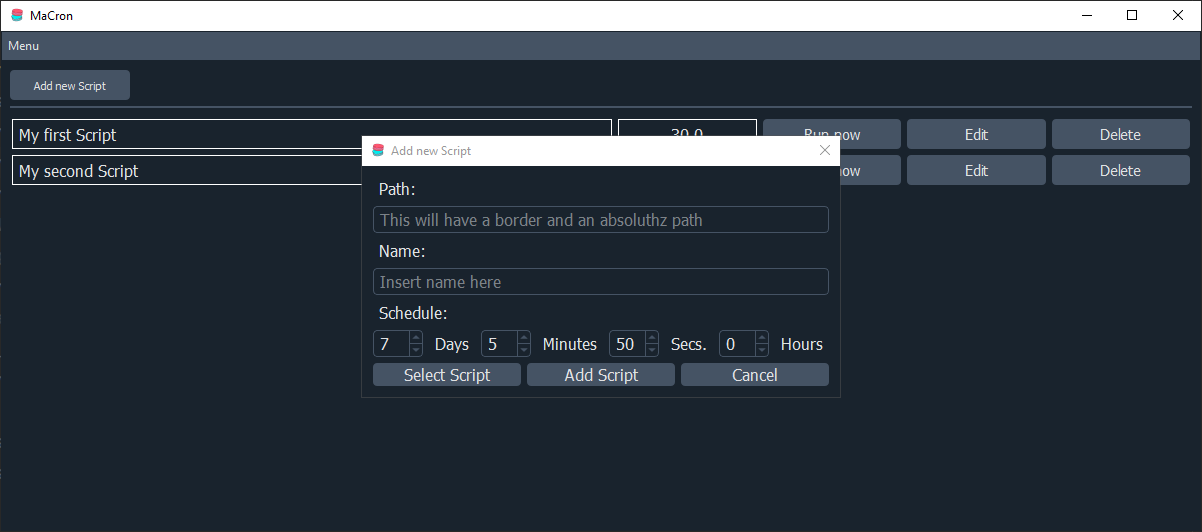
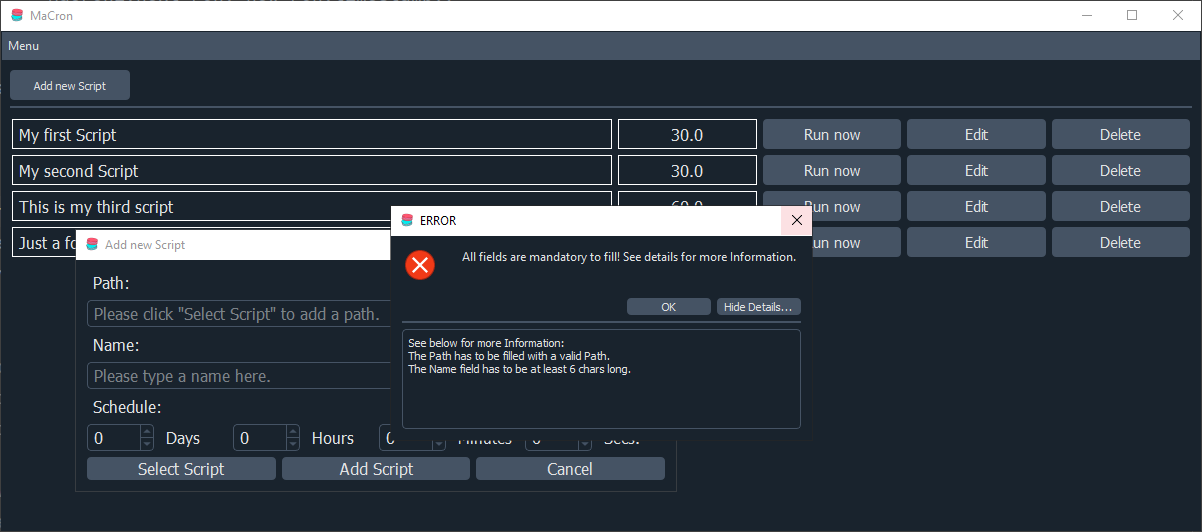
Scripts can now be added to the DB

diff --git a/UI/addDialog.py b/UI/addDialog.py
@@ -14,72 +14,73 @@ from PyQt5 import QtCore, QtGui, QtWidgets
 class Ui_Dialog(object):
     def setupUi(self, Dialog):
         Dialog.setObjectName("Dialog")
-        Dialog.resize(410, 207)
+        Dialog.resize(600, 220)
         font = QtGui.QFont()
         font.setPointSize(12)
         Dialog.setFont(font)
         icon = QtGui.QIcon()
         icon.addPixmap(QtGui.QPixmap(":/icons/assets/icons/macaron_flaticon-com.ico"), QtGui.QIcon.Normal, QtGui.QIcon.Off)
         Dialog.setWindowIcon(icon)
+        Dialog.setWhatsThis("")
         self.horizontalLayout_4 = QtWidgets.QHBoxLayout(Dialog)
         self.horizontalLayout_4.setObjectName("horizontalLayout_4")
         self.gridLayout_2 = QtWidgets.QGridLayout()
         self.gridLayout_2.setObjectName("gridLayout_2")
         self.horizontalLayout_3 = QtWidgets.QHBoxLayout()
         self.horizontalLayout_3.setObjectName("horizontalLayout_3")
-        self.pushButton = QtWidgets.QPushButton(Dialog)
-        self.pushButton.setObjectName("pushButton")
-        self.horizontalLayout_3.addWidget(self.pushButton)
-        self.pushButton_3 = QtWidgets.QPushButton(Dialog)
-        self.pushButton_3.setObjectName("pushButton_3")
-        self.horizontalLayout_3.addWidget(self.pushButton_3)
-        self.pushButton_2 = QtWidgets.QPushButton(Dialog)
-        self.pushButton_2.setObjectName("pushButton_2")
-        self.horizontalLayout_3.addWidget(self.pushButton_2)
+        self.btn_select = QtWidgets.QPushButton(Dialog)
+        self.btn_select.setObjectName("btn_select")
+        self.horizontalLayout_3.addWidget(self.btn_select)
+        self.btn_add = QtWidgets.QPushButton(Dialog)
+        self.btn_add.setObjectName("btn_add")
+        self.horizontalLayout_3.addWidget(self.btn_add)
+        self.btn_cancel = QtWidgets.QPushButton(Dialog)
+        self.btn_cancel.setObjectName("btn_cancel")
+        self.horizontalLayout_3.addWidget(self.btn_cancel)
         self.gridLayout_2.addLayout(self.horizontalLayout_3, 6, 0, 1, 1)
         self.horizontalLayout = QtWidgets.QHBoxLayout()
         self.horizontalLayout.setObjectName("horizontalLayout")
-        self.spinBox_2 = QtWidgets.QSpinBox(Dialog)
-        self.spinBox_2.setObjectName("spinBox_2")
-        self.horizontalLayout.addWidget(self.spinBox_2)
-        self.label_4 = QtWidgets.QLabel(Dialog)
-        self.label_4.setObjectName("label_4")
-        self.horizontalLayout.addWidget(self.label_4)
-        self.spinBox_3 = QtWidgets.QSpinBox(Dialog)
-        self.spinBox_3.setObjectName("spinBox_3")
-        self.horizontalLayout.addWidget(self.spinBox_3)
-        self.label_6 = QtWidgets.QLabel(Dialog)
-        self.label_6.setObjectName("label_6")
-        self.horizontalLayout.addWidget(self.label_6)
-        self.spinBox_4 = QtWidgets.QSpinBox(Dialog)
-        self.spinBox_4.setObjectName("spinBox_4")
-        self.horizontalLayout.addWidget(self.spinBox_4)
-        self.label_7 = QtWidgets.QLabel(Dialog)
-        self.label_7.setObjectName("label_7")
-        self.horizontalLayout.addWidget(self.label_7)
-        self.spinBox = QtWidgets.QSpinBox(Dialog)
-        self.spinBox.setObjectName("spinBox")
-        self.horizontalLayout.addWidget(self.spinBox)
-        self.label_5 = QtWidgets.QLabel(Dialog)
-        self.label_5.setObjectName("label_5")
-        self.horizontalLayout.addWidget(self.label_5)
+        self.spn_days = QtWidgets.QSpinBox(Dialog)
+        self.spn_days.setObjectName("spn_days")
+        self.horizontalLayout.addWidget(self.spn_days)
+        self.lbl_days = QtWidgets.QLabel(Dialog)
+        self.lbl_days.setObjectName("lbl_days")
+        self.horizontalLayout.addWidget(self.lbl_days)
+        self.spn_hours = QtWidgets.QSpinBox(Dialog)
+        self.spn_hours.setObjectName("spn_hours")
+        self.horizontalLayout.addWidget(self.spn_hours)
+        self.lbl_hours = QtWidgets.QLabel(Dialog)
+        self.lbl_hours.setObjectName("lbl_hours")
+        self.horizontalLayout.addWidget(self.lbl_hours)
+        self.spn_mins = QtWidgets.QSpinBox(Dialog)
+        self.spn_mins.setObjectName("spn_mins")
+        self.horizontalLayout.addWidget(self.spn_mins)
+        self.lbl_mins = QtWidgets.QLabel(Dialog)
+        self.lbl_mins.setObjectName("lbl_mins")
+        self.horizontalLayout.addWidget(self.lbl_mins)
+        self.spn_secs = QtWidgets.QSpinBox(Dialog)
+        self.spn_secs.setObjectName("spn_secs")
+        self.horizontalLayout.addWidget(self.spn_secs)
+        self.lbl_secs = QtWidgets.QLabel(Dialog)
+        self.lbl_secs.setObjectName("lbl_secs")
+        self.horizontalLayout.addWidget(self.lbl_secs)
         self.gridLayout_2.addLayout(self.horizontalLayout, 5, 0, 1, 1)
-        self.lineEdit = QtWidgets.QLineEdit(Dialog)
-        self.lineEdit.setObjectName("lineEdit")
-        self.gridLayout_2.addWidget(self.lineEdit, 3, 0, 1, 1)
-        self.label_3 = QtWidgets.QLabel(Dialog)
-        self.label_3.setObjectName("label_3")
-        self.gridLayout_2.addWidget(self.label_3, 4, 0, 1, 1)
-        self.label = QtWidgets.QLabel(Dialog)
-        self.label.setObjectName("label")
-        self.gridLayout_2.addWidget(self.label, 0, 0, 1, 1)
-        self.label_8 = QtWidgets.QLabel(Dialog)
-        self.label_8.setObjectName("label_8")
-        self.gridLayout_2.addWidget(self.label_8, 2, 0, 1, 1)
-        self.lineEdit_2 = QtWidgets.QLineEdit(Dialog)
-        self.lineEdit_2.setReadOnly(True)
-        self.lineEdit_2.setObjectName("lineEdit_2")
-        self.gridLayout_2.addWidget(self.lineEdit_2, 1, 0, 1, 1)
+        self.edit_name = QtWidgets.QLineEdit(Dialog)
+        self.edit_name.setObjectName("edit_name")
+        self.gridLayout_2.addWidget(self.edit_name, 3, 0, 1, 1)
+        self.lbl_schedula = QtWidgets.QLabel(Dialog)
+        self.lbl_schedula.setObjectName("lbl_schedula")
+        self.gridLayout_2.addWidget(self.lbl_schedula, 4, 0, 1, 1)
+        self.lbl_path = QtWidgets.QLabel(Dialog)
+        self.lbl_path.setObjectName("lbl_path")
+        self.gridLayout_2.addWidget(self.lbl_path, 0, 0, 1, 1)
+        self.lbl_name = QtWidgets.QLabel(Dialog)
+        self.lbl_name.setObjectName("lbl_name")
+        self.gridLayout_2.addWidget(self.lbl_name, 2, 0, 1, 1)
+        self.edit_path = QtWidgets.QLineEdit(Dialog)
+        self.edit_path.setReadOnly(True)
+        self.edit_path.setObjectName("edit_path")
+        self.gridLayout_2.addWidget(self.edit_path, 1, 0, 1, 1)
         self.horizontalLayout_4.addLayout(self.gridLayout_2)
 
         self.retranslateUi(Dialog)
@@ -88,16 +89,16 @@ class Ui_Dialog(object):
     def retranslateUi(self, Dialog):
         _translate = QtCore.QCoreApplication.translate
         Dialog.setWindowTitle(_translate("Dialog", "Add new Script"))
-        self.pushButton.setText(_translate("Dialog", "Select Script"))
-        self.pushButton_3.setText(_translate("Dialog", "Add Script"))
-        self.pushButton_2.setText(_translate("Dialog", "Cancel"))
-        self.label_4.setText(_translate("Dialog", "Days"))
-        self.label_6.setText(_translate("Dialog", "Minutes"))
-        self.label_7.setText(_translate("Dialog", "Secs."))
-        self.label_5.setText(_translate("Dialog", "Hours"))
-        self.lineEdit.setPlaceholderText(_translate("Dialog", "Insert name here"))
-        self.label_3.setText(_translate("Dialog", "Schedule:"))
-        self.label.setText(_translate("Dialog", "Path:"))
-        self.label_8.setText(_translate("Dialog", "Name:"))
-        self.lineEdit_2.setPlaceholderText(_translate("Dialog", "This will have a border and an absoluthz path"))
+        self.btn_select.setText(_translate("Dialog", "Select Script"))
+        self.btn_add.setText(_translate("Dialog", "Add Script"))
+        self.btn_cancel.setText(_translate("Dialog", "Cancel"))
+        self.lbl_days.setText(_translate("Dialog", "Days"))
+        self.lbl_hours.setText(_translate("Dialog", "Hours"))
+        self.lbl_mins.setText(_translate("Dialog", "Minutes"))
+        self.lbl_secs.setText(_translate("Dialog", "Secs."))
+        self.edit_name.setPlaceholderText(_translate("Dialog", "Please type a name here."))
+        self.lbl_schedula.setText(_translate("Dialog", "Schedule:"))
+        self.lbl_path.setText(_translate("Dialog", "Path:"))
+        self.lbl_name.setText(_translate("Dialog", "Name:"))
+        self.edit_path.setPlaceholderText(_translate("Dialog", "Please click \"Select Script\" to add a path."))
 import ui_resources_rc

diff --git a/main.py b/main.py
@@ -7,7 +7,7 @@ from subprocess import call
 
 from sqlalchemy import Column, Integer, String, Float, create_engine
 from sqlalchemy.orm import declarative_base, Session
-from PyQt5 import QtWidgets, QtCore
+from PyQt5 import QtWidgets, QtCore, QtGui
 from UI import entryWidget, mainWindow, addDialog
 
 # db setup
@@ -36,22 +36,21 @@ class MainWindow(QtWidgets.QMainWindow):
         self.ui.setupUi(self)
 
         # adding entries to GUI
-        self.add_entries()
+        self.add_entries_to_gui()
 
         # sub window
         self.sub_window = AddDialog()
 
         # Menu trigger
         self.ui.menu_action_exit.triggered.connect(self.exit)
-        self.ui.menu_action_add.triggered.connect(self.sub_window.show)
+        self.ui.menu_action_add.triggered.connect(self.open_dialog)
         # Button clicked
-        self.ui.btn_addScript.clicked.connect(self.sub_window.show)
+        self.ui.btn_addScript.clicked.connect(self.open_dialog)
 
-    def exit(self) -> None:
-        """This method will simply close the program."""
-        sys.exit()
+    def open_dialog(self):
+        self.sub_window.exec_()
 
-    def add_entries(self) -> None:
+    def add_entries_to_gui(self) -> None:
         """When this method is called, it will read all entries in the database and add it to the GUI."""
         row = 0
         with Session(engine) as session:
@@ -63,6 +62,10 @@ class MainWindow(QtWidgets.QMainWindow):
                 row += 1
                 self.ui.gridLayout.addWidget(entry, row, 0)
 
+    def exit(self) -> None:
+        """This method will simply close the program."""
+        sys.exit()
+
 
 class AddDialog(QtWidgets.QDialog):
     def __init__(self, *args, **kwargs):
@@ -71,7 +74,60 @@ class AddDialog(QtWidgets.QDialog):
         self.add_dialog.setupUi(self)
         # remove the question mark and keep the dialog on top
         self.setWindowFlags(self.windowFlags() ^ QtCore.Qt.WindowContextHelpButtonHint)
-        self.setWindowFlags(self.windowFlags() ^ QtCore.Qt.WindowStaysOnTopHint)
+        # self.setWindowFlags(self.windowFlags() ^ QtCore.Qt.WindowStaysOnTopHint)
+        self.setWindowFlags(self.windowFlags() ^ QtCore.Qt.WindowCloseButtonHint)
+
+        # button events
+        self.add_dialog.btn_cancel.clicked.connect(self.cancel_dialog)
+        self.add_dialog.btn_select.clicked.connect(self.select_script)
+        self.add_dialog.btn_add.clicked.connect(self.add_to_db)
+
+    def cancel_dialog(self):
+        self.close()
+
+    def select_script(self):
+        path_name = QtWidgets.QFileDialog.getOpenFileName(self, "Select Script", "c:\\", "Python files (*.py)")
+        self.add_dialog.edit_path.setText(path_name[0])
+
+    def add_to_db(self):
+        # TODO: Clean up and move some of this in extra functions
+        path = self.add_dialog.edit_path.text()
+        name = self.add_dialog.edit_name.text()
+        interval = 60
+        if path and name:
+            print("added, closing")
+            # print(f"{path} and {name}")
+            with Session(engine) as session:
+                macroni = Macroni()
+                macroni.name = name
+                macroni.path = path
+                # INFO: we need to calculate the interval here in seconds or when we get the data from the add gui,
+                # we already get it in seconds.
+                macroni.interval = interval
+                # calculate when the next run is according to current dateTime.now().timestamp() plus interval
+                new_run = datetime.datetime.now() + datetime.timedelta(seconds=interval)
+                macroni.next_run = new_run.timestamp()
+
+                session.add_all([macroni])
+                session.commit()
+            # TODO: See if i need a separate update method to maybe wipe all entries because i suspect at the moment
+            #  this will currently add some of the entries over old entries.
+            mainWin.add_entries_to_gui()
+            self.close()
+        else:
+            icon = QtGui.QIcon()
+            icon.addPixmap(QtGui.QPixmap(":/icons/assets/icons/macaron_flaticon-com.ico"))
+
+            msg = QtWidgets.QMessageBox()
+            msg.setWindowIcon(icon)
+            msg.setIcon(QtWidgets.QMessageBox.Critical)
+            msg.setText("All fields are mandatory to fill! See details for more Information.")
+            msg.setDetailedText("See below for more Information:\n"
+                                "The Path has to be filled with a valid Path.\n"
+                                "The Name field has to be at least 6 chars long.")
+            msg.setWindowTitle("ERROR")
+            msg.setStandardButtons(QtWidgets.QMessageBox.Ok)
+            msg.exec_()
 
 
 class EntryWidget(QtWidgets.QWidget):
@@ -86,7 +142,7 @@ def add_macroni(name: str, interval: int) -> None:
     with Session(engine) as session:
         macroni = Macroni()
         macroni.name = name
-        macroni.path = path_picker()
+        # macroni.path = path_picker()
         # INFO: we need to calculate the interval here in seconds or when we get the data from the add gui, we already
         #  get it in seconds.
         macroni.interval = interval
@@ -127,13 +183,13 @@ def wait_timer():
     run_macroni()
 
 
-def path_picker():
-    from tkinter import Tk
-    from tkinter.filedialog import askopenfilename
-
-    Tk().withdraw()
-    filename = askopenfilename()
-    return filename
+# def path_picker():
+#     from tkinter import Tk
+#     from tkinter.filedialog import askopenfilename
+#
+#     Tk().withdraw()
+#     filename = askopenfilename()
+#     return filename
 
 
 if __name__ == "__main__":
